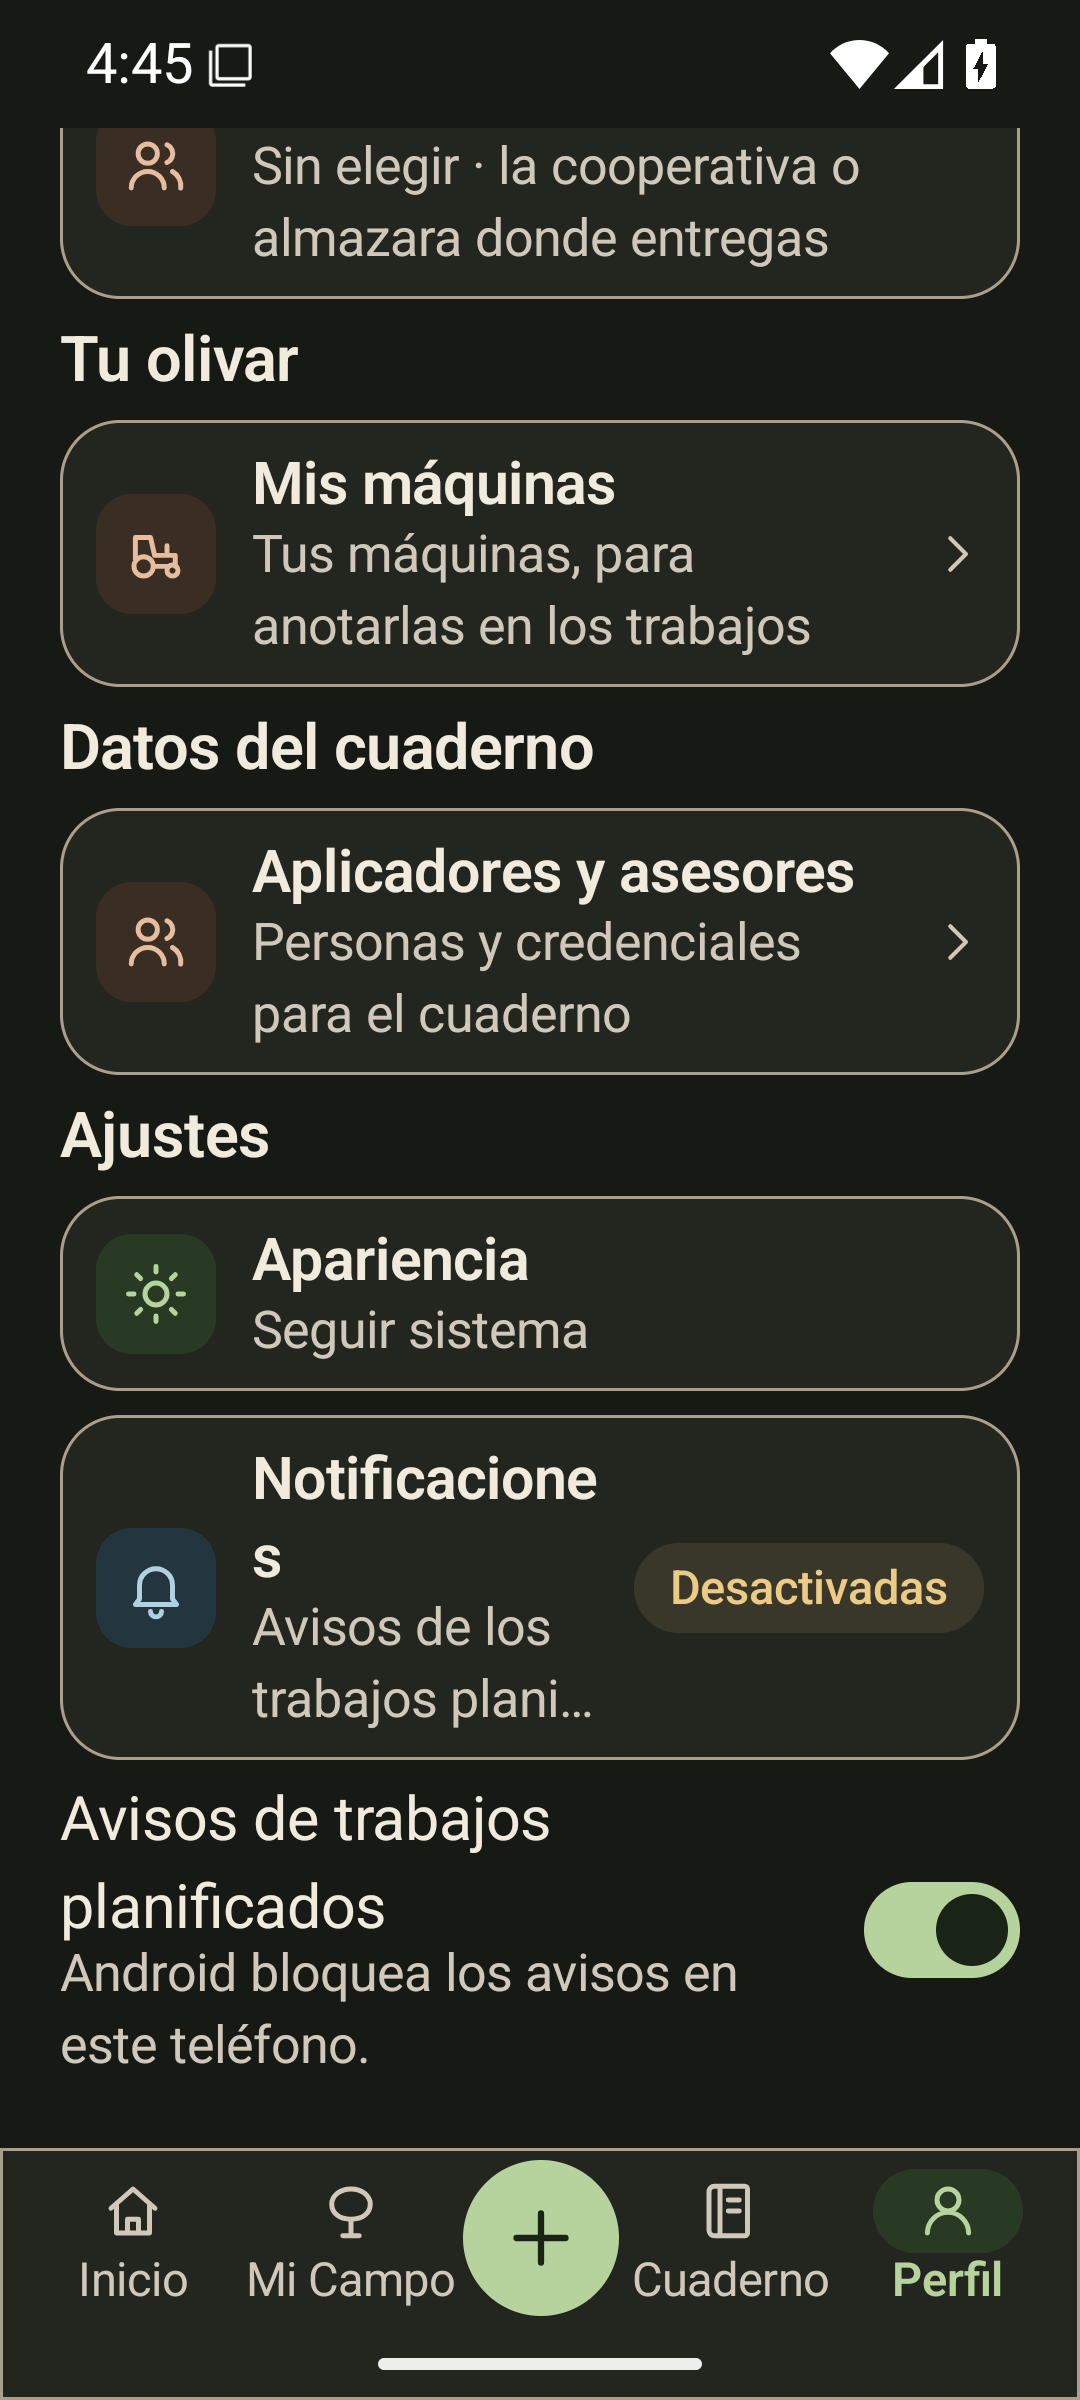
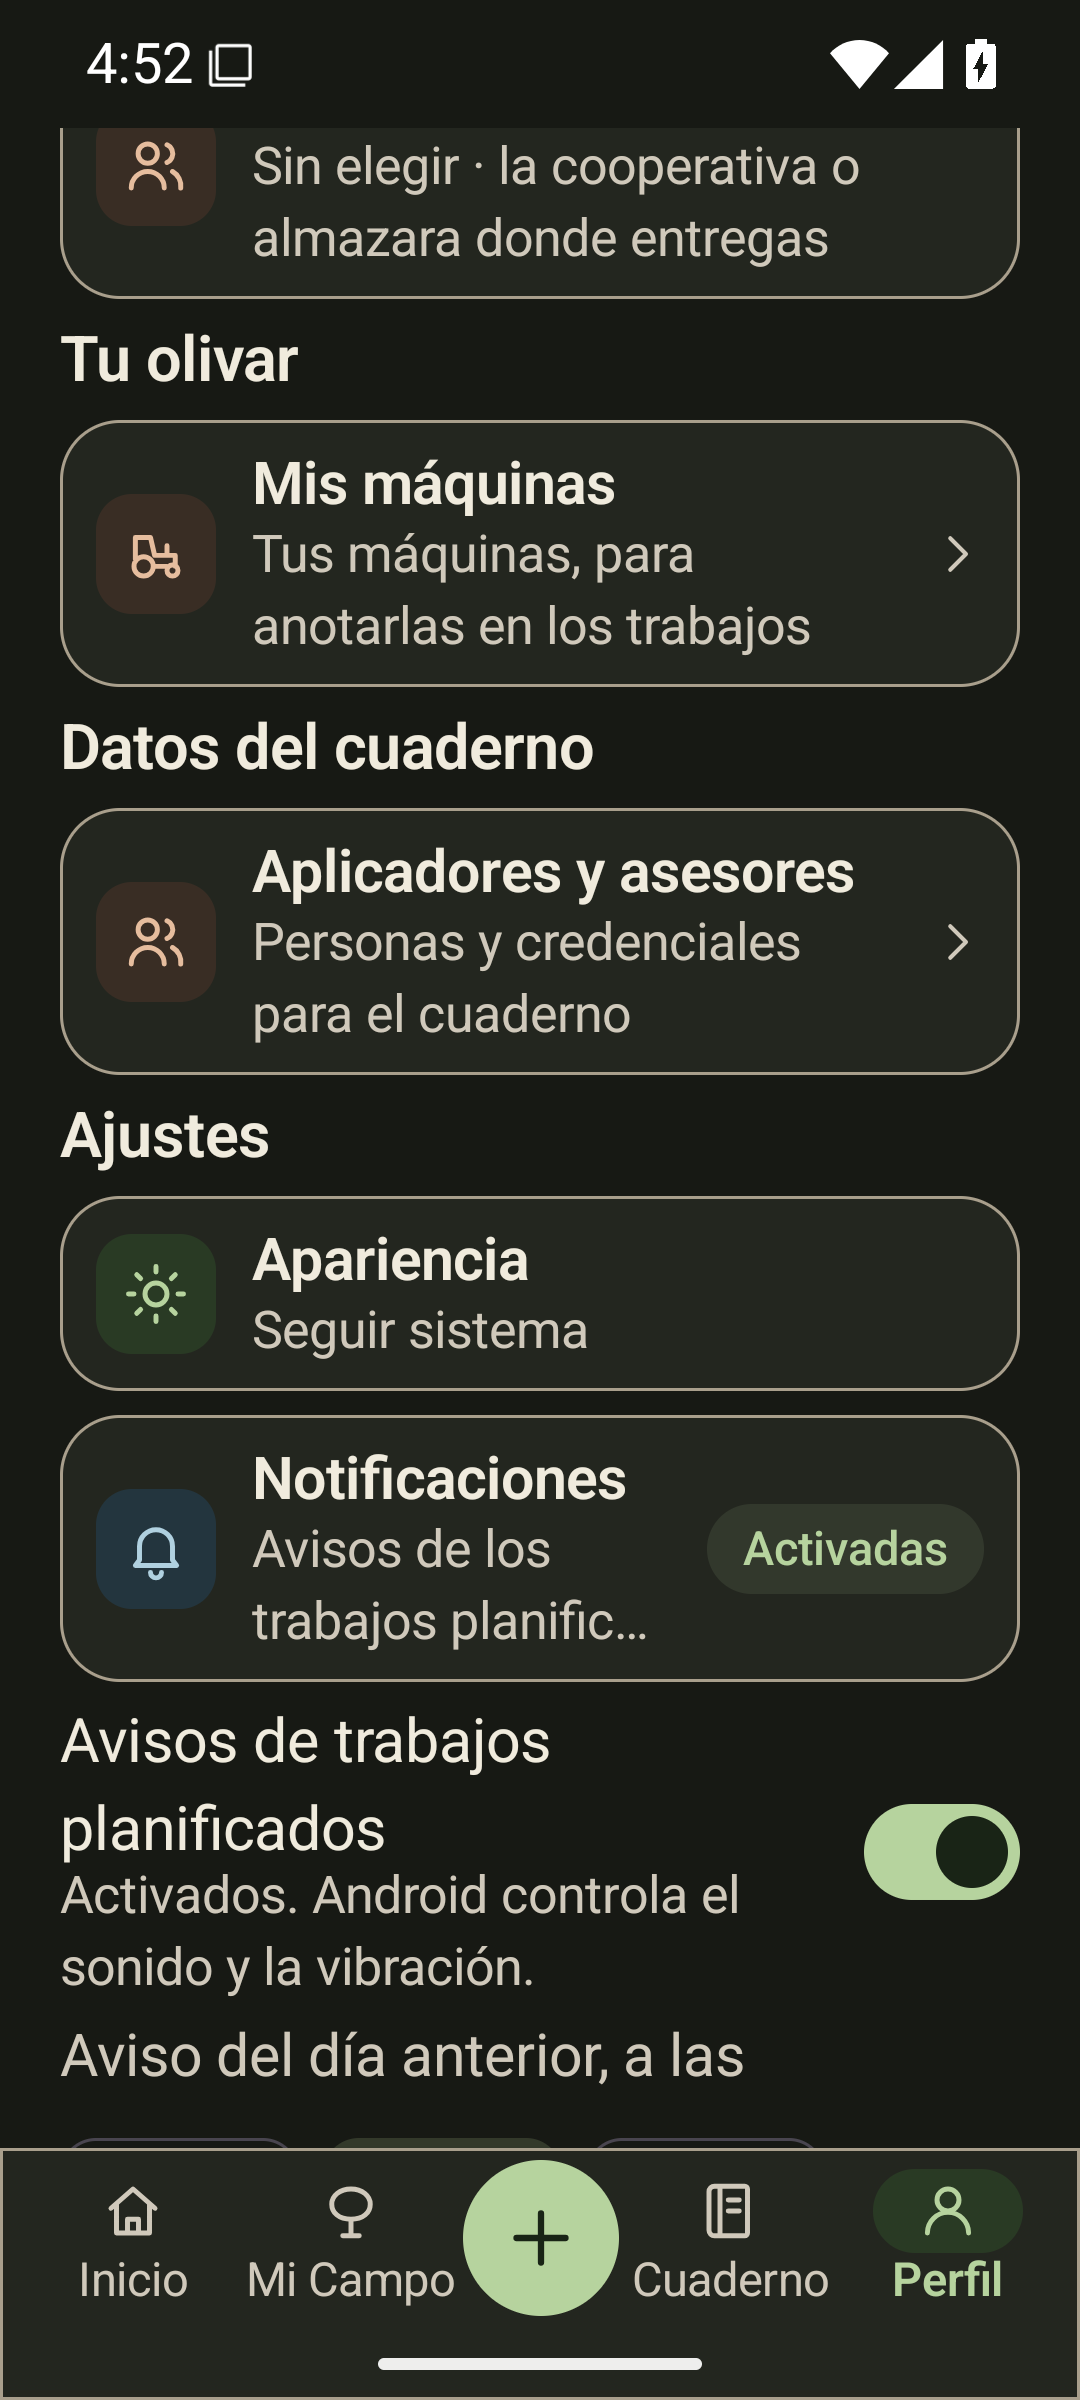
test(android): verify effective permission state after granting

diff --git a/app/src/androidTest/java/com/isivoltpro/maginaolivo/ContextNotificationPermissionTest.kt b/app/src/androidTest/java/com/isivoltpro/maginaolivo/ContextNotificationPermissionTest.kt
@@ -96,7 +96,8 @@ class ContextNotificationPermissionTest {
             compose.waitUntil(10_000) { clickPermissionButton(button) }
             compose.waitUntil(10_000) {
                 val granted = ContextCompat.checkSelfPermission(context, Manifest.permission.POST_NOTIFICATIONS) == PackageManager.PERMISSION_GRANTED
-                if (mode == "grant") granted else !granted && compose.onAllNodesWithText("Android bloquea los avisos en este teléfono.").fetchSemanticsNodes().isNotEmpty()
+                if (mode == "grant") granted && compose.onAllNodesWithText("Activados. Android controla el sonido y la vibración.").fetchSemanticsNodes().isNotEmpty()
+                else !granted && compose.onAllNodesWithText("Android bloquea los avisos en este teléfono.").fetchSemanticsNodes().isNotEmpty()
             }
         }
         compose.onNodeWithTag("notification-permission-dialog").assertDoesNotExist()

diff --git a/docs/06-testing/evidence/issue462-notification-permission/README.md b/docs/06-testing/evidence/issue462-notification-permission/README.md
@@ -20,6 +20,10 @@ este bloque no cierra #462 ni #725.
 - `apk-sha256.txt`: huellas de los binarios DEV y test utilizados; ninguna APK candidata.
 - La primera ejecución nativa pasó baseline, grant, deny y later; sus logs están
   en esta carpeta. Las ejecuciones finales y capturas se conservan por tamaño/tema.
+- Matriz: 4/4 en 360 dp oscuro y 3/3 en 390 dp claro, fuente 1,3. Se reforzó
+  después la aceptación para esperar también el texto efectivo «Activados» antes
+  de capturar (no solo el permiso del sistema): 2/2 adicionales en `ui-360-dark`
+  y `ui-390-light`. Las capturas de aceptación incluyen ese estado confirmado.
 - Cada modo usa MainActivity/Perfil/Room reales con una base UUID sintética.
   IsolatedAppStateRule restaura base y preferencias originales; los scripts
   preservan permiso POST_NOTIFICATIONS y flags, comprobando igualdad exacta.
